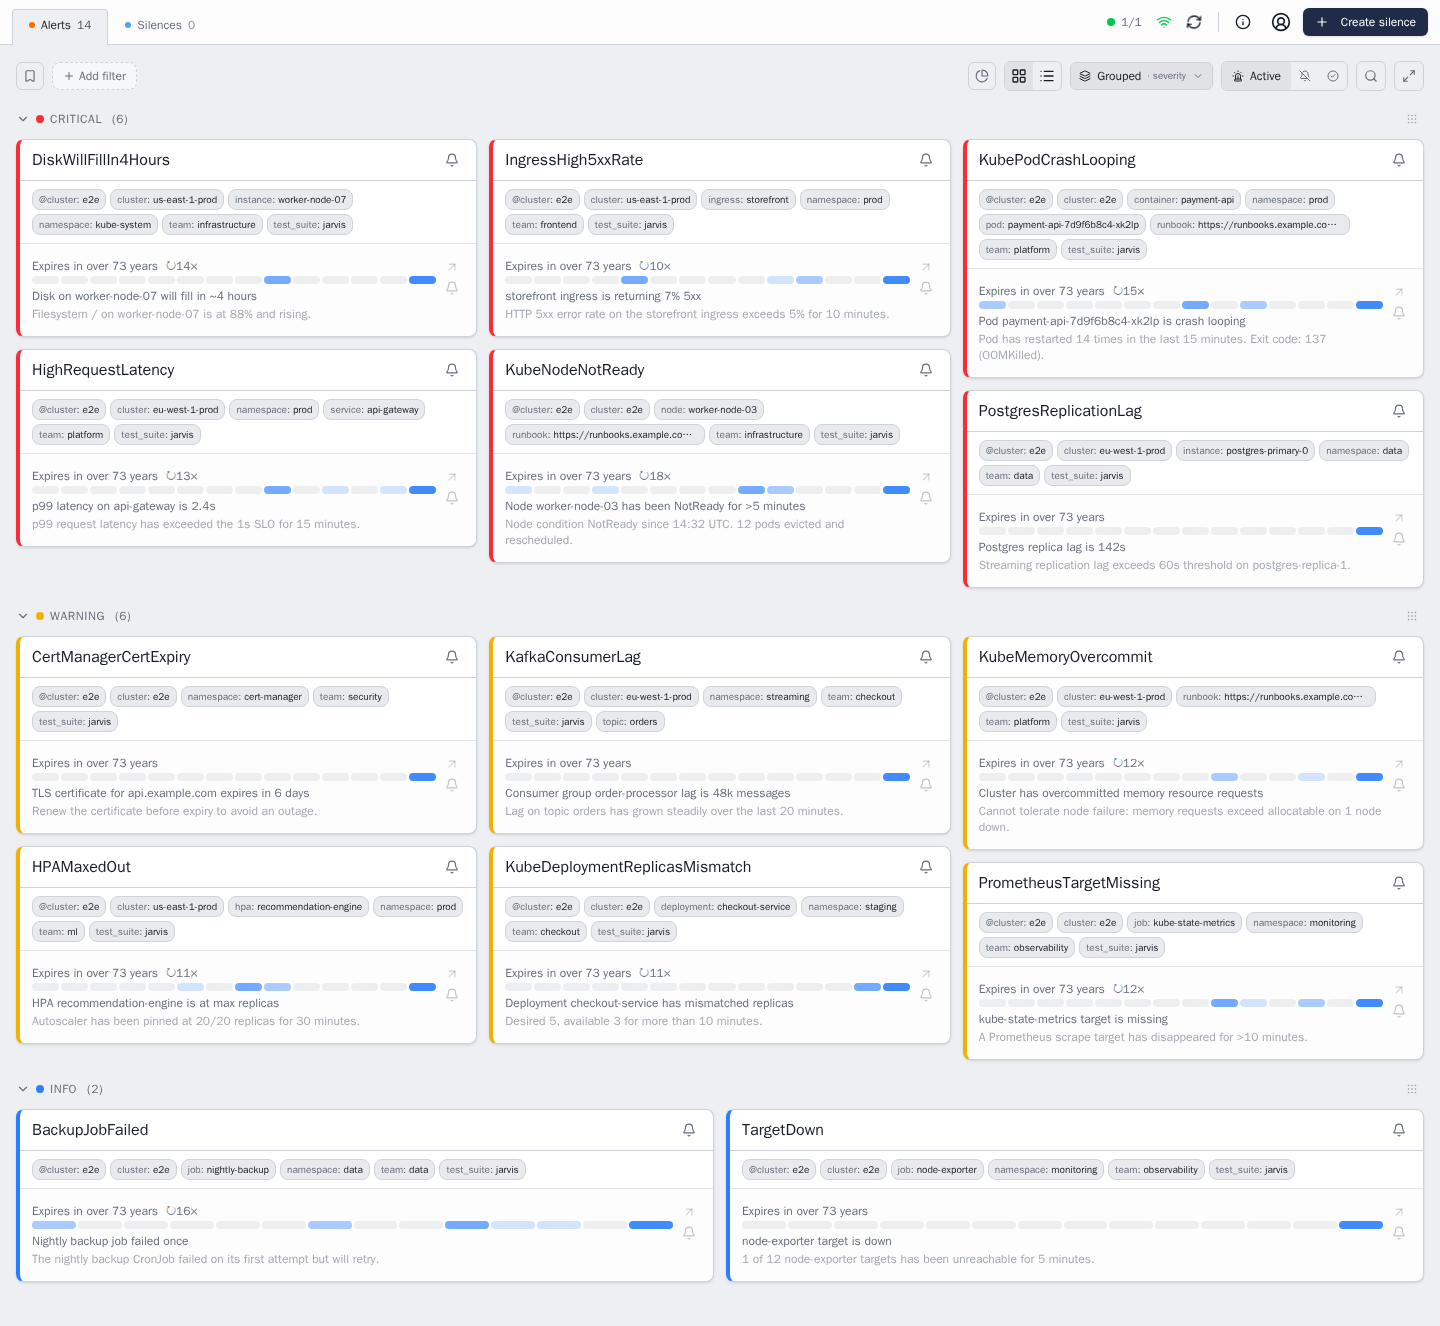
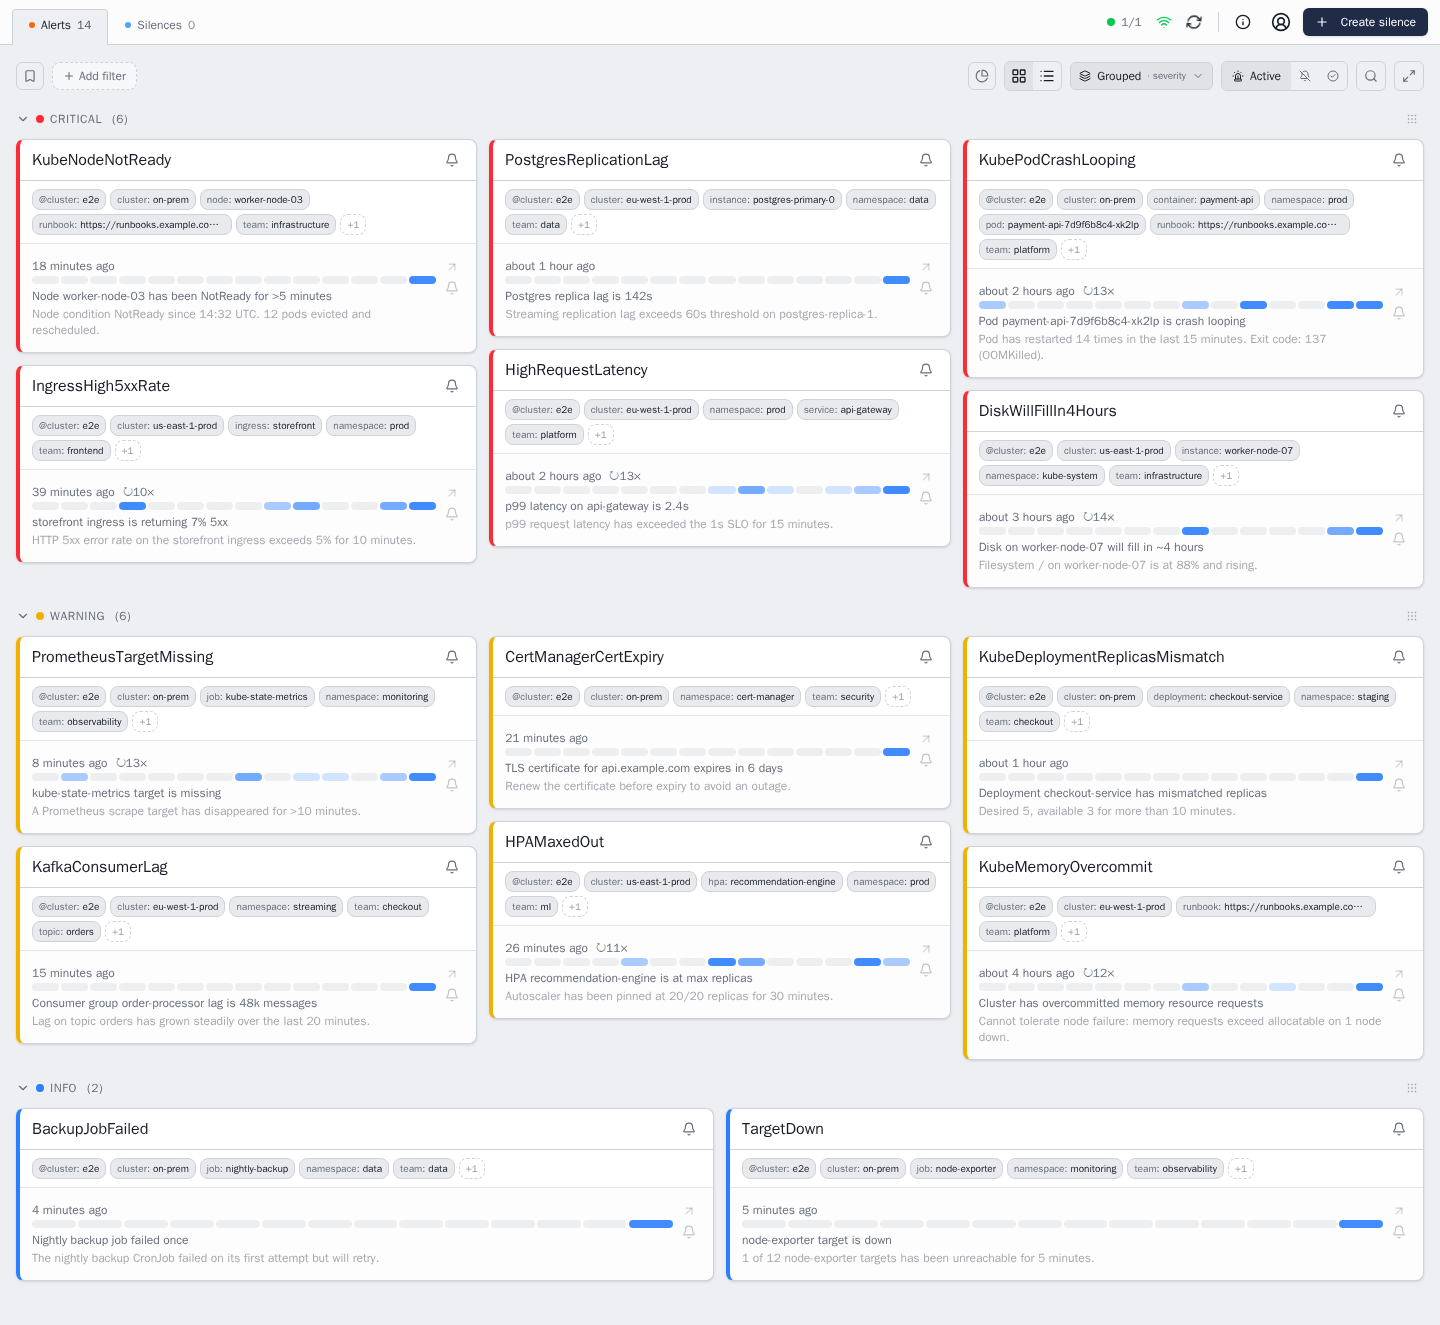
fix(frontend): show a realistic firing time on card-view screenshots
Every card on feature-card-view.png and -light.png showed "Expires in over
73 years" instead of a firing duration. fireWithHeatmapHistory freezes the
browser clock to "now" and only then fires the alerts; Alertmanager assigns
startsAt on the real, unfrozen test-runner clock a little later, so it
always lands a few milliseconds after the frozen browser "now". AlertCard
reads that as "hasn't started yet" and falls back to the endsAt countdown
against am.fire()'s placeholder-far-future default. Fixed locally for this
spec by giving each alert an explicit past startsAt, computed before the
freeze happens so it can never land on the wrong side of it — the shared
helper, used by roughly two dozen other screenshots, is untouched.

The test_suite=jarvis housekeeping label is now hidden via labelDisplay
settings instead of removed — removing it at the source would mean touching
the shared fire() helper that every screenshot's cleanup relies on. Seeding
labelDisplay with hidden but no order silently produced a labelDisplay
missing order entirely and crashed the app on load: migratePersistedSettings
doesn't validate shape the way normalizeSettings does on the equivalent
server path. Worked around by always seeding both fields; the gap itself is
still open.

cluster: 'e2e' — a plain fixture label, not the @cluster pseudo-label — is
replaced with 'on-prem' for this screenshot only, since half of manyAlerts
carries it and it read as a leftover test environment next to the realistic
[…]

diff --git a/frontend/e2e/screenshots/none/card-view.screenshot.spec.ts b/frontend/e2e/screenshots/none/card-view.screenshot.spec.ts
@@ -1,9 +1,58 @@
+import type { Page } from '@playwright/test'
 import { test, expect, JARVIS_BASE_URL } from '../../support/fixtures'
 import { dismissNoAuthNotice } from '../../support/auth'
 import { fireWithHeatmapHistory } from '../../support/heatmapHistory'
 import { manyAlerts } from '../../fixtures/alerts'
+import type { AlertInput } from '../../support/alertmanager'
 
 const DIR = process.env.SCREENSHOTS_DIR ?? '../docs/assets'
+
+/**
+ * `manyAlerts` as posted by `am.fire()` shows "Expires in over 73 years" on
+ * every card: `fireWithHeatmapHistory` freezes the *browser* clock to "now"
+ * and only then fires alerts, so Alertmanager's own unfrozen clock always
+ * assigns `startsAt` a little after that frozen instant. AlertCard reads
+ * `startsAt > now` as "not started yet" and shows the `endsAt` countdown
+ * instead of "X ago" — `am.fire()` defaults `endsAt` to a placeholder far in
+ * the future so alerts never auto-resolve mid-test, which is what actually
+ * surfaces here. Giving each alert an explicit past `startsAt` (computed
+ * before the freeze happens, so it can never land on the wrong side of it)
+ * sidesteps the race and produces the realistic "X ago" these two screenshots
+ * are supposed to show. `cluster: 'e2e'` is also replaced — half of
+ * `manyAlerts` carries it, and "e2e" reads as a test environment rather than
+ * the multi-region deployment the rest of the fixture depicts.
+ *
+ * Scoped to this file: `manyAlerts` itself (used by ~30 other specs) and
+ * `fireWithHeatmapHistory`/`am.fire()` (used by every other screenshot) are
+ * untouched.
+ */
+const FIRING_MINUTES_AGO = [134, 18, 47, 5, 210, 92, 8, 21, 63, 15, 191, 39, 26, 4]
+
+const screenshotAlerts: AlertInput[] = manyAlerts.map((alert, i) => ({
+  ...alert,
+  labels:
+    alert.labels.cluster === 'e2e' ? { ...alert.labels, cluster: 'on-prem' } : alert.labels,
+  startsAt: new Date(
+    Date.now() - FIRING_MINUTES_AGO[i % FIRING_MINUTES_AGO.length] * 60_000,
+  ).toISOString(),
+}))
+
+/** Hides the `test_suite` housekeeping label (display-only — invariant #19)
+ *  without touching how the alert was fired or how cleanup finds it. `order`
+ *  must be given alongside `hidden` — the pre-v2 settings migration path
+ *  spreads a persisted `labelDisplay` straight into resolved settings without
+ *  validating its shape, so an `order`-less object silently loses that field. */
+async function hideTestSuiteLabel(page: Page): Promise<void> {
+  await page.addInitScript(() => {
+    localStorage.setItem(
+      'jarvis-user-settings',
+      JSON.stringify({
+        state: { labelDisplay: { order: [], hidden: ['test_suite'] } },
+        version: 0,
+      }),
+    )
+  })
+}
 
 /**
  * Screenshot: alerts card view, populated with a rich set so it doesn't look
@@ -13,7 +62,8 @@ const DIR = process.env.SCREENSHOTS_DIR ?? '../docs/assets'
  */
 test('card-view', async ({ page, am, jarvis }) => {
   await dismissNoAuthNotice(page)
-  await fireWithHeatmapHistory(page, am, jarvis, JARVIS_BASE_URL, manyAlerts)
+  await hideTestSuiteLabel(page)
+  await fireWithHeatmapHistory(page, am, jarvis, JARVIS_BASE_URL, screenshotAlerts)
 
   await page.goto('/?state=active')
   await expect(page.getByTestId('alert-card').first()).toBeVisible()
@@ -30,7 +80,8 @@ test('card-view', async ({ page, am, jarvis }) => {
  */
 test('card-view-light', async ({ page, am, jarvis }) => {
   await dismissNoAuthNotice(page)
-  await fireWithHeatmapHistory(page, am, jarvis, JARVIS_BASE_URL, manyAlerts)
+  await hideTestSuiteLabel(page)
+  await fireWithHeatmapHistory(page, am, jarvis, JARVIS_BASE_URL, screenshotAlerts)
 
   await page.goto('/?state=active')
   await expect(page.getByTestId('alert-card').first()).toBeVisible()
